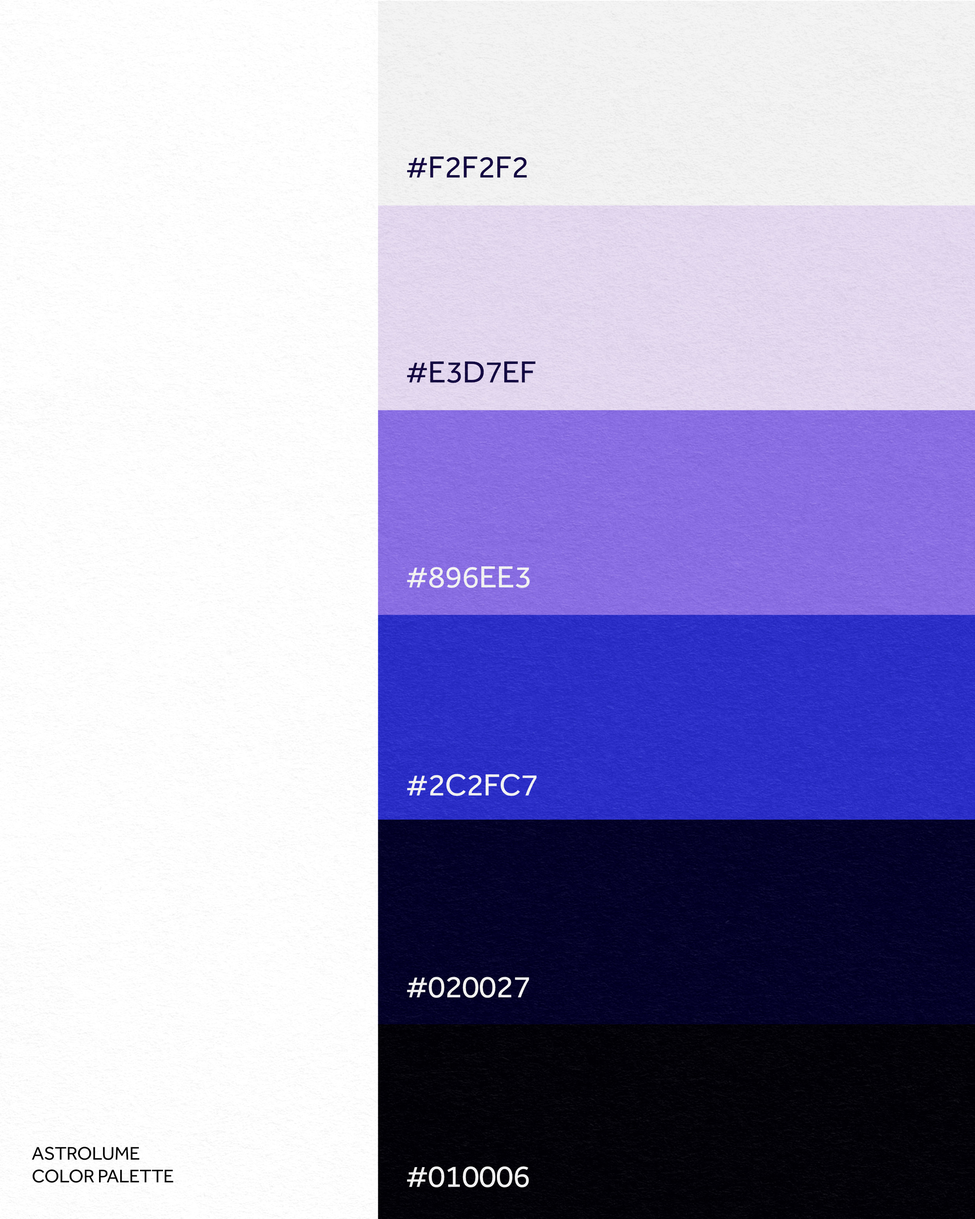
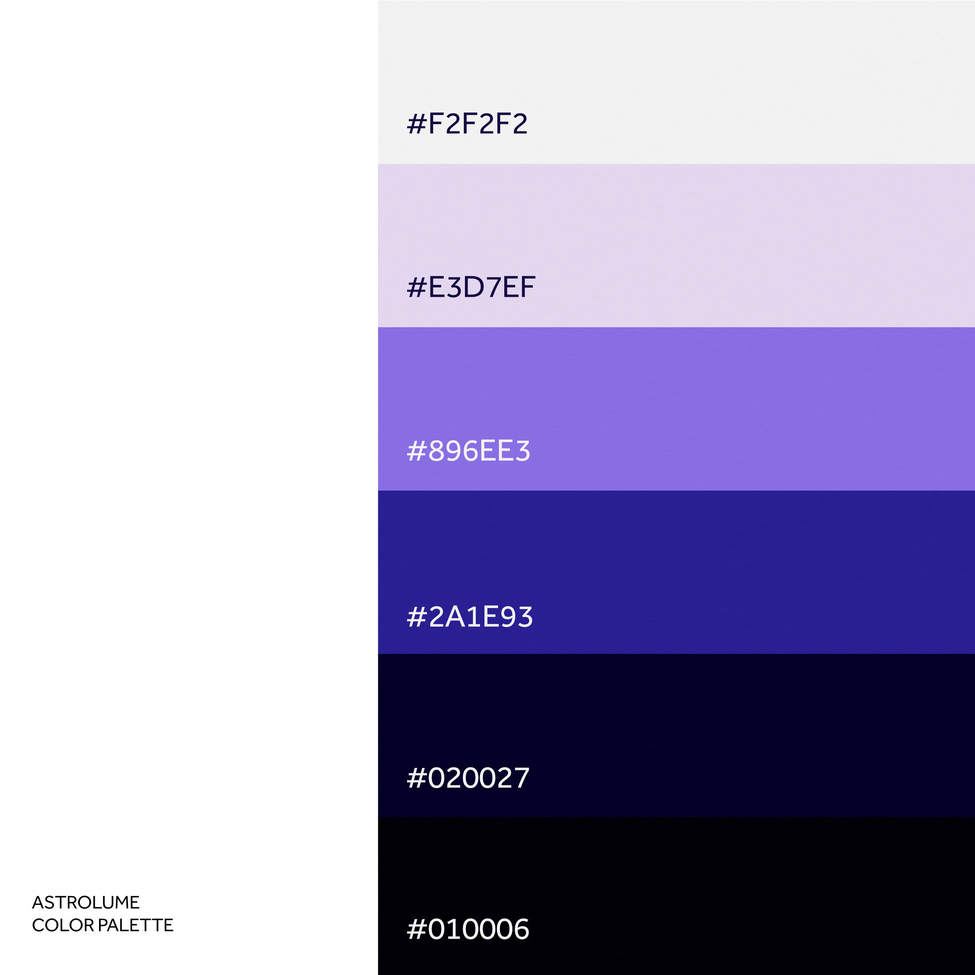
new layout

diff --git a/astrolume/astrolume.js b/astrolume/astrolume.js
@@ -22,11 +22,11 @@ const projects = [
     size: "half",
   },
 
-    {
-      type: "image",
-      image: "/design/photos/astrolume/brand-system-astro.jpg",
-      size: "large",
-    },
+    // {
+    //   type: "image",
+    //   image: "/design/photos/astrolume/brand-system-astro.jpg",
+    //   size: "large",
+    // },
 
   {
     type: "image",
